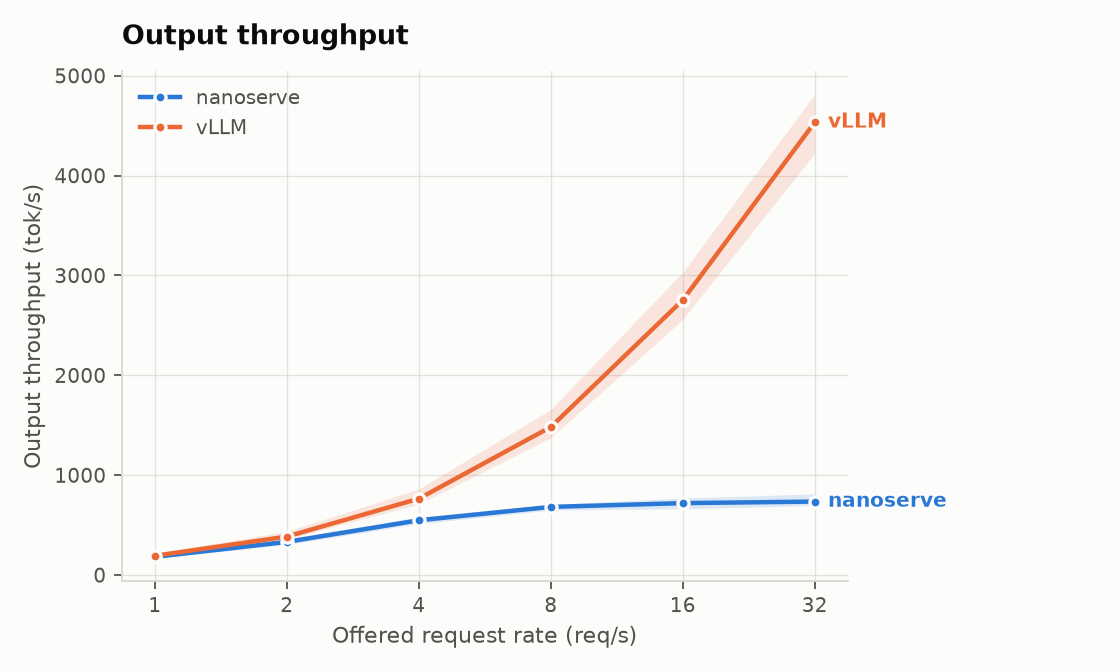
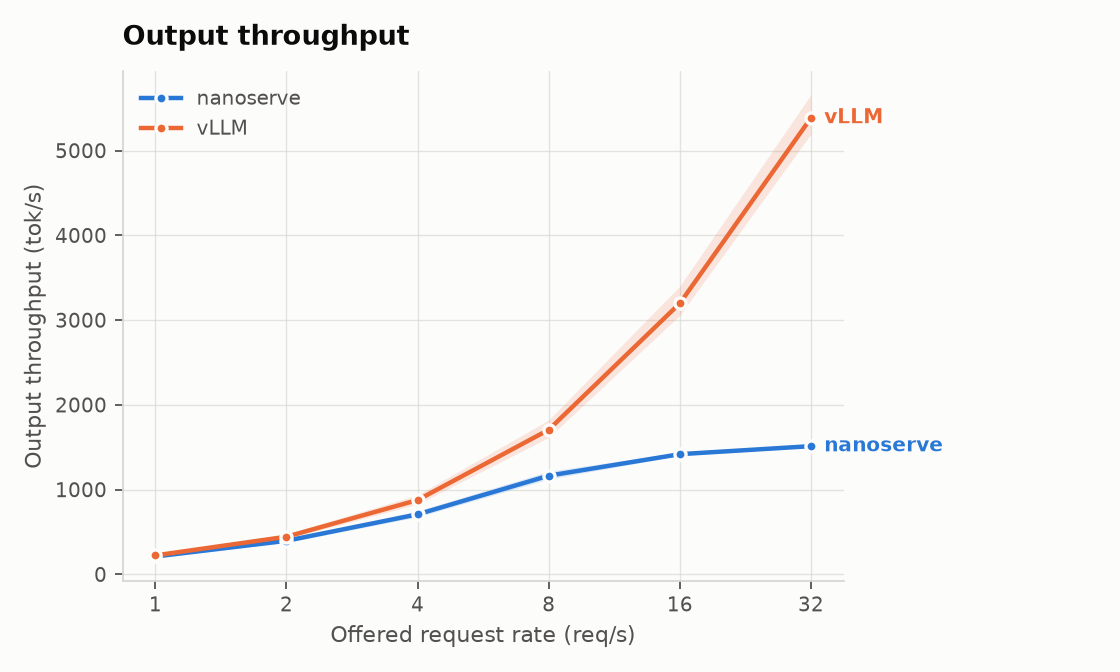
[fix] read vllm output as it is produced, not in bulk
Its step loop hands back cumulative output by default, so every token of
a request got the timestamp of the moment that request finished. At one
request a second, where a request takes half a minute, that reported a
27 second time to first token and an inter-token latency of one
millisecond: the whole latency profile of the baseline, wrong, and wrong
in the direction that flatters nanoserve.

Asking for delta output fixes it, and the harness now refuses any run
whose tokens arrived stamped together rather than trusting the driver.

diff --git a/benchmarks/online.py b/benchmarks/online.py
@@ -85,6 +85,7 @@ def main():
         for run in range(1, args.runs + 1):
             schedule = metrics.poisson_schedule(rate, len(requests), run)
             records = engine(requests, schedule)
+            metrics.check_timestamps_are_incremental(records)
             wall = (max(r.chunk_times[-1] for r in records)
                     - min(r.send_time for r in records))
             result = metrics.summarize(records, rate, wall)
@@ -144,6 +145,7 @@ def VLLM(args):
     from vllm import LLMEngine, EngineArgs
     from vllm import SamplingParams as VllmSamplingParams
     from vllm.inputs import TokensPrompt
+    from vllm.sampling_params import RequestOutputKind
 
     engine = LLMEngine.from_engine_args(EngineArgs(
         model=args.model_path,
@@ -158,7 +160,7 @@ def VLLM(args):
         pending = list(zip(range(len(requests)), requests, schedule))
         pending.reverse()
         start = time.perf_counter()
-        live, seen = 0, {}
+        live = 0
 
         while pending or live:
             now = time.perf_counter() - start
@@ -168,23 +170,21 @@ def VLLM(args):
                     str(index),
                     TokensPrompt(prompt_token_ids=req.prompt_ids),
                     VllmSamplingParams(temperature=0.0, max_tokens=req.output_len,
-                                       ignore_eos=True),
+                                       ignore_eos=True,
+                                       output_kind=RequestOutputKind.DELTA),
                 )
                 records[str(index)] = metrics.RequestRecord(
                     req.prompt_len, req.output_len, 0, time.perf_counter()
                 )
-                seen[str(index)] = 0
                 live += 1
 
             outputs = engine.step()
             stamp = time.perf_counter()
             for out in outputs:
                 record = records[out.request_id]
-                produced = len(out.outputs[0].token_ids)
-                for _ in range(produced - seen[out.request_id]):
+                for _ in out.outputs[0].token_ids:
                     record.chunk_times.append(stamp)
                     record.num_chunks += 1
-                seen[out.request_id] = produced
                 if out.finished:
                     live -= 1
 

diff --git a/test/test_metrics.py b/test/test_metrics.py
@@ -57,3 +57,27 @@ def test_a_failed_request_is_counted_not_silently_dropped():
     assert summary["num_requests"] == 2
     assert summary["num_failed"] == 1
     assert summary["output_tokens"] == 1
+
+
+def test_bulk_timestamped_tokens_are_rejected():
+    """The failure this exists to catch: a driver that reads output only
+    when a request finishes stamps every token at the same instant. TTFT
+    then collapses into end-to-end latency and ITL goes to zero, which
+    looks like a fast engine rather than a broken measurement."""
+    bulk = make_record(0.0, [9.0] * 10)
+    try:
+        metrics.check_timestamps_are_incremental([bulk])
+    except RuntimeError as exc:
+        assert "timestamped together" in str(exc)
+    else:
+        raise AssertionError("bulk timestamps were not caught")
+
+
+def test_normal_timestamps_pass_the_check():
+    fine = make_record(0.0, [0.1 * i for i in range(1, 11)])
+    metrics.check_timestamps_are_incremental([fine])
+
+
+def test_short_requests_are_not_flagged():
+    """A two-token request can legitimately land in one step."""
+    metrics.check_timestamps_are_incremental([make_record(0.0, [1.0, 1.0])])

diff --git a/benchmarks/metrics.py b/benchmarks/metrics.py
@@ -70,6 +70,21 @@ def summarize(records: list, offered_rate: float, wall: float) -> dict:
     }
 
 
+def check_timestamps_are_incremental(records: list) -> None:
+    stamped_at_once = [
+        r for r in records
+        if r.num_chunks > 4 and len(set(r.chunk_times)) < r.num_chunks / 2
+    ]
+    if stamped_at_once:
+        r = stamped_at_once[0]
+        raise RuntimeError(
+            f"{len(stamped_at_once)} of {len(records)} requests had their tokens "
+            f"timestamped together ({len(set(r.chunk_times))} distinct times for "
+            f"{r.num_chunks} tokens). The driver is reading output in bulk rather "
+            f"than as it is produced, which makes TTFT and ITL meaningless."
+        )
+
+
 def provenance(model: str, seed: int) -> dict:
     info = {"model": model, "seed": seed, "gpu": _shell(
         "nvidia-smi --query-gpu=name,driver_version --format=csv,noheader")}

diff --git a/docs/benchmarks/results.md b/docs/benchmarks/results.md
@@ -1,20 +1,20 @@
 | engine | rate (req/s) | tok/s | TTFT p50 | TTFT p99 | ITL p99 | attained |
 | --- | --- | --- | --- | --- | --- | --- |
-| nanoserve | 1 | 182 | 51 ms | 74 ms | 57 ms | 0.95 |
-| nanoserve | 2 | 332 | 54 ms | 79 ms | 66 ms | 1.73 |
-| nanoserve | 4 | 548 | 57 ms | 83 ms | 89 ms | 2.86 |
-| nanoserve | 8 | 682 | 63 ms | 2194 ms | 99 ms | 3.57 |
-| nanoserve | 16 | 720 | 124 ms | 9640 ms | 99 ms | 3.78 |
-| nanoserve | 32 | 736 | 1251 ms | 14317 ms | 91 ms | 3.86 |
-| vLLM | 1 | 193 | 24 ms | 42 ms | 5 ms | 1.01 |
-| vLLM | 2 | 385 | 23 ms | 43 ms | 6 ms | 2.01 |
-| vLLM | 4 | 765 | 23 ms | 42 ms | 7 ms | 3.99 |
-| vLLM | 8 | 1483 | 25 ms | 50 ms | 8 ms | 7.73 |
-| vLLM | 16 | 2754 | 30 ms | 63 ms | 13 ms | 14.37 |
-| vLLM | 32 | 4533 | 36 ms | 72 ms | 15 ms | 23.69 |
+| nanoserve | 1 | 211 | 25 ms | 27 ms | 48 ms | 0.94 |
+| nanoserve | 2 | 396 | 25 ms | 27 ms | 49 ms | 1.77 |
+| nanoserve | 4 | 708 | 25 ms | 27 ms | 50 ms | 3.17 |
+| nanoserve | 8 | 1164 | 25 ms | 88 ms | 74 ms | 5.21 |
+| nanoserve | 16 | 1418 | 26 ms | 5360 ms | 74 ms | 6.34 |
+| nanoserve | 32 | 1513 | 974 ms | 9717 ms | 65 ms | 6.77 |
+| vLLM | 1 | 224 | 27731 ms | 42927 ms | 1 ms | 1.00 |
+| vLLM | 2 | 444 | 562 ms | 7985 ms | 3 ms | 1.99 |
+| vLLM | 4 | 877 | 13 ms | 936 ms | 3 ms | 3.92 |
+| vLLM | 8 | 1706 | 13 ms | 118 ms | 9 ms | 7.63 |
+| vLLM | 16 | 3198 | 15 ms | 27 ms | 10 ms | 14.31 |
+| vLLM | 32 | 5385 | 15 ms | 29 ms | 11 ms | 24.09 |
 
 | engine | offline tok/s |
 | --- | --- |
-| nanoserve | 1068 |
-| vLLM | 5837 |
-| HF (static) | 378 |
+| nanoserve | 1132 |
+| vLLM | 6146 |
+| HF (static) | 393 |
